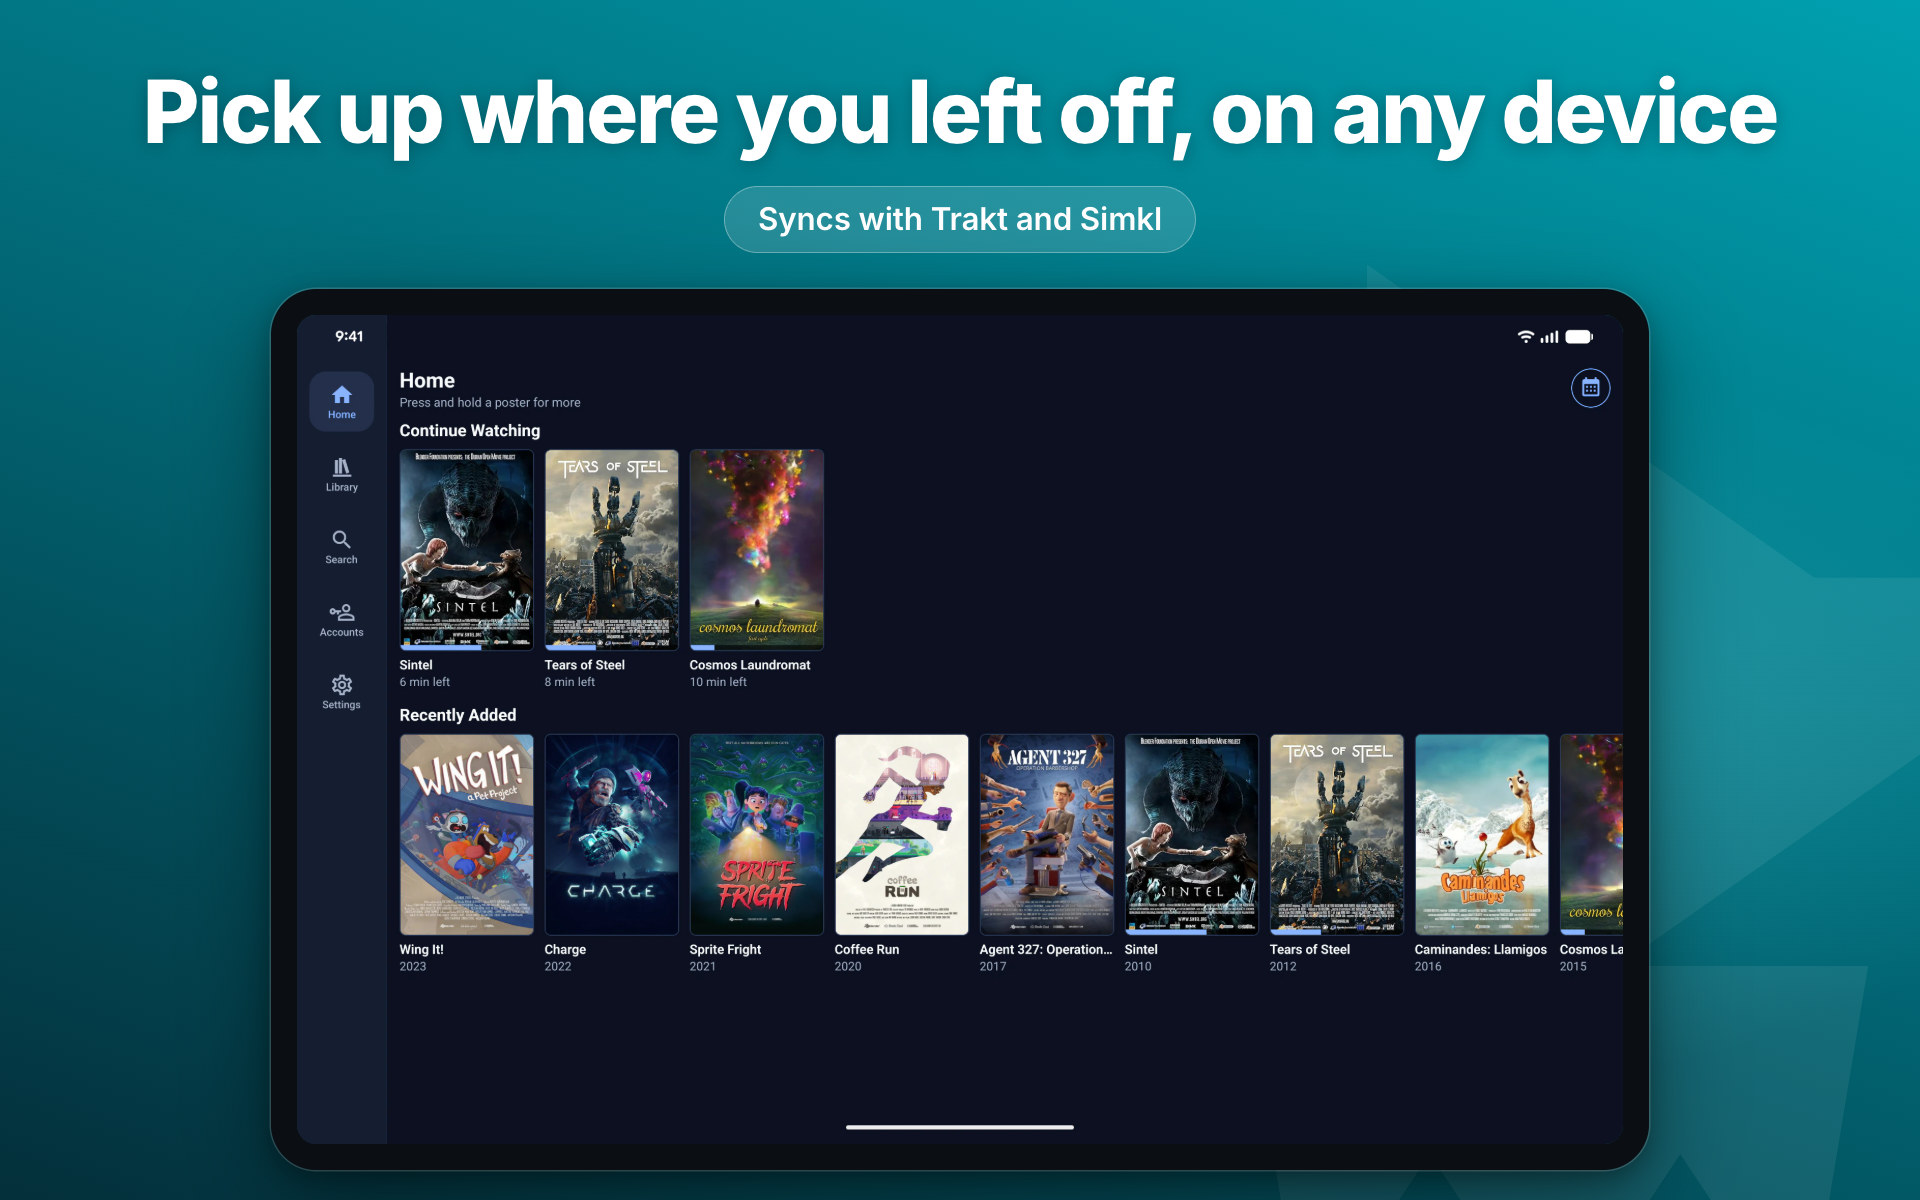
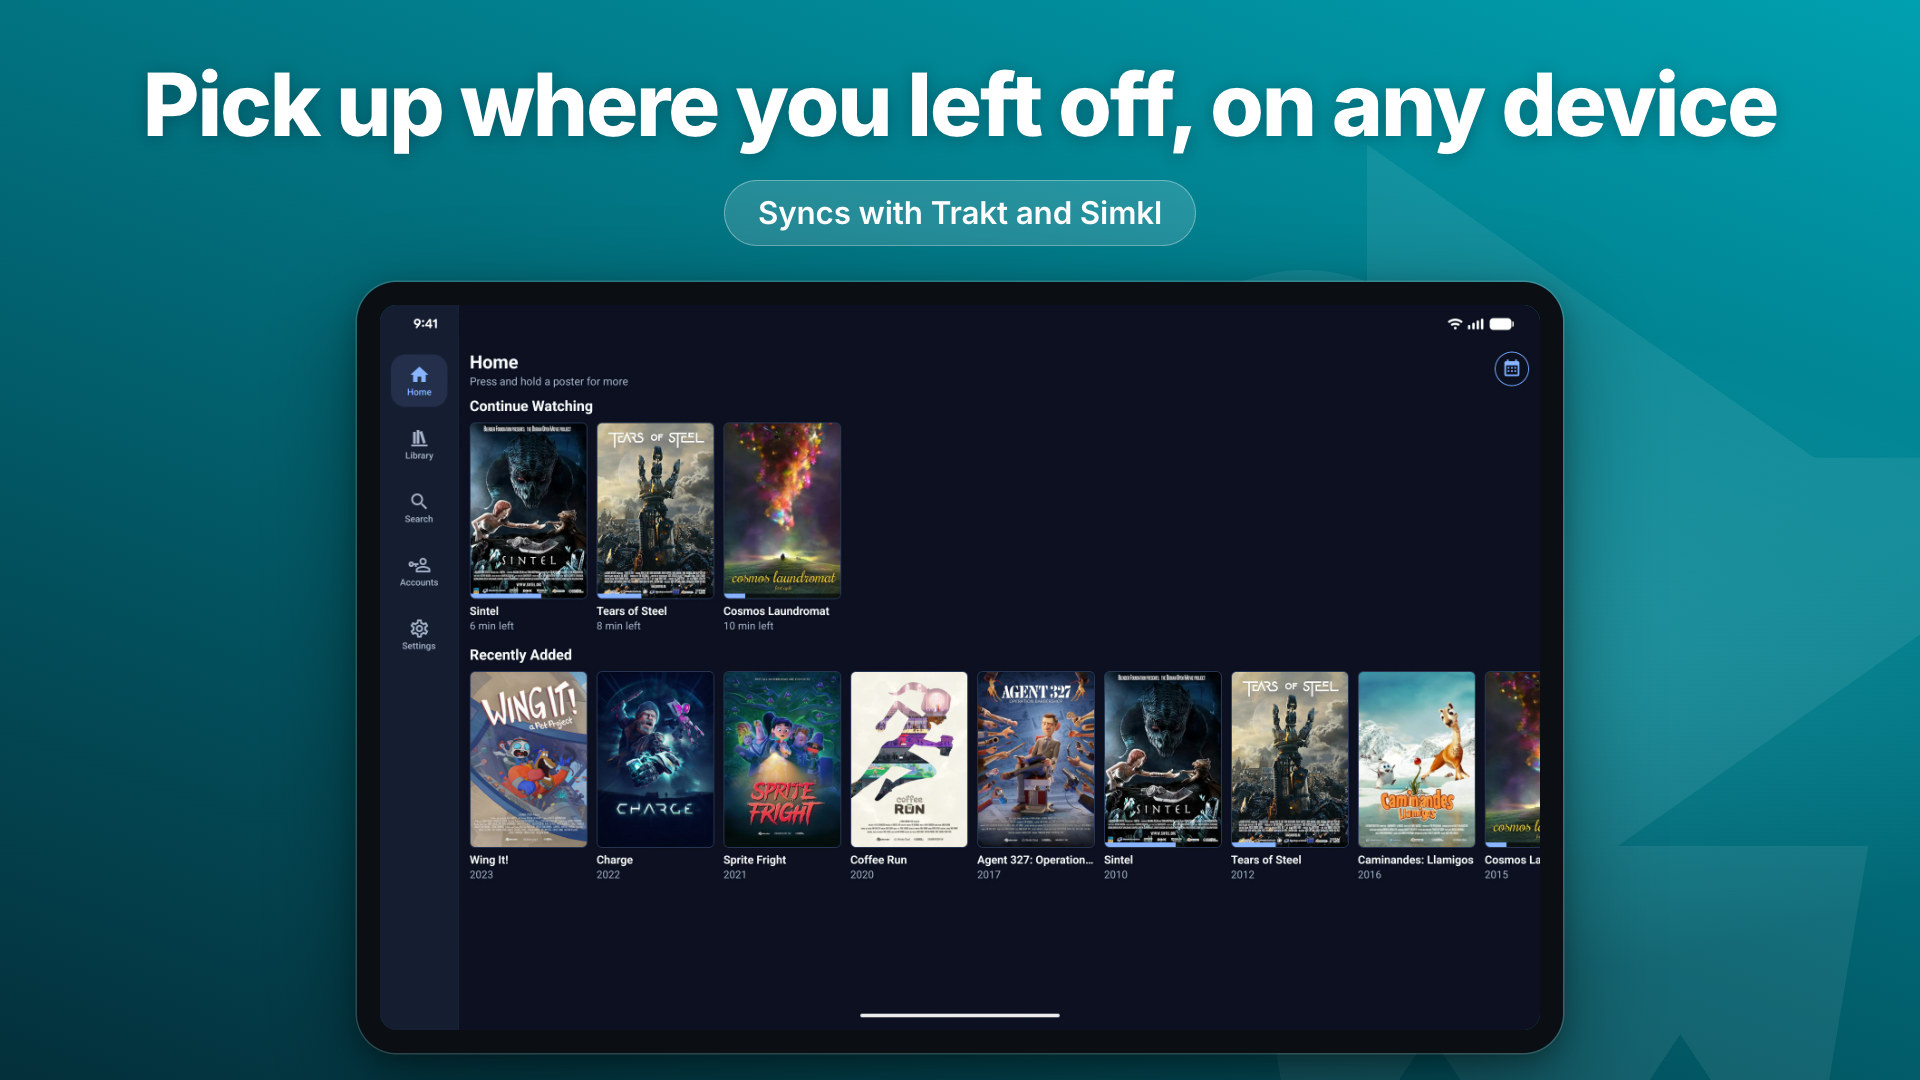
docs: Android tablet slides at 1920x1080, since Play takes only 16:9 or 9:16 tablet screenshots

Changed region(s): [[0.0625, 0.0611, 0.9375, 1.0], [0.4375, 0.9167, 0.5625, 0.9472]]

diff --git a/docs/store/marketing/render.py b/docs/store/marketing/render.py
@@ -62,7 +62,7 @@ SETS = {
     "appletv": dict(size=(1920, 1080), layout="tv", device="tv", screens="appletv", tv="appletv", store="App Store Apple TV"),
     "android-phone": dict(size=(1080, 1920), layout="portrait", device="phone", screens="android-phone", tv="android-tv",
                           store="Google Play phone"),
-    "android-tablet": dict(size=(1920, 1200), layout="landscape", device="tablet", screens="android-tablet", tv="android-tv",
+    "android-tablet": dict(size=(1920, 1080), layout="landscape", device="tablet", screens="android-tablet", tv="android-tv",
                            store="Google Play 7- and 10-inch tablet, Amazon Fire tablet"),
     "android-tv": dict(size=(1920, 1080), layout="tv", device="tv", screens="android-tv", tv="android-tv",
                        store="Google Play Android TV, Amazon Fire TV"),

diff --git a/docs/store/listing.md b/docs/store/listing.md
@@ -125,7 +125,7 @@ density 320), a Fire TV Cube, and iPhone 17 Pro Max, iPad Pro 13-inch and Apple 
 | App Store iPad 13" | 2752 × 2064 | `marketing/ipad/` (6) |
 | App Store Apple TV | 1920 × 1080 | `marketing/appletv/` (6) |
 | Play phone | 1080 × 1920 | `marketing/android-phone/` (6) |
-| Play 7" and 10" tablet, Amazon Fire tablet | 1920 × 1200 | `marketing/android-tablet/` (6) |
+| Play 7" and 10" tablet, Amazon Fire tablet | 1920 × 1080 | `marketing/android-tablet/` (6) |
 | Play Android TV, Amazon Fire TV | 1920 × 1080 | `marketing/android-tv/` (6) |
 | Play feature graphic, Amazon promotional image | 1024 × 500 | `marketing/play-feature-graphic.jpg` |
 | Amazon Fire TV background (no text or logo, as Amazon asks) | 1920 × 1080 | `marketing/amazon-firetv-background.jpg` |
